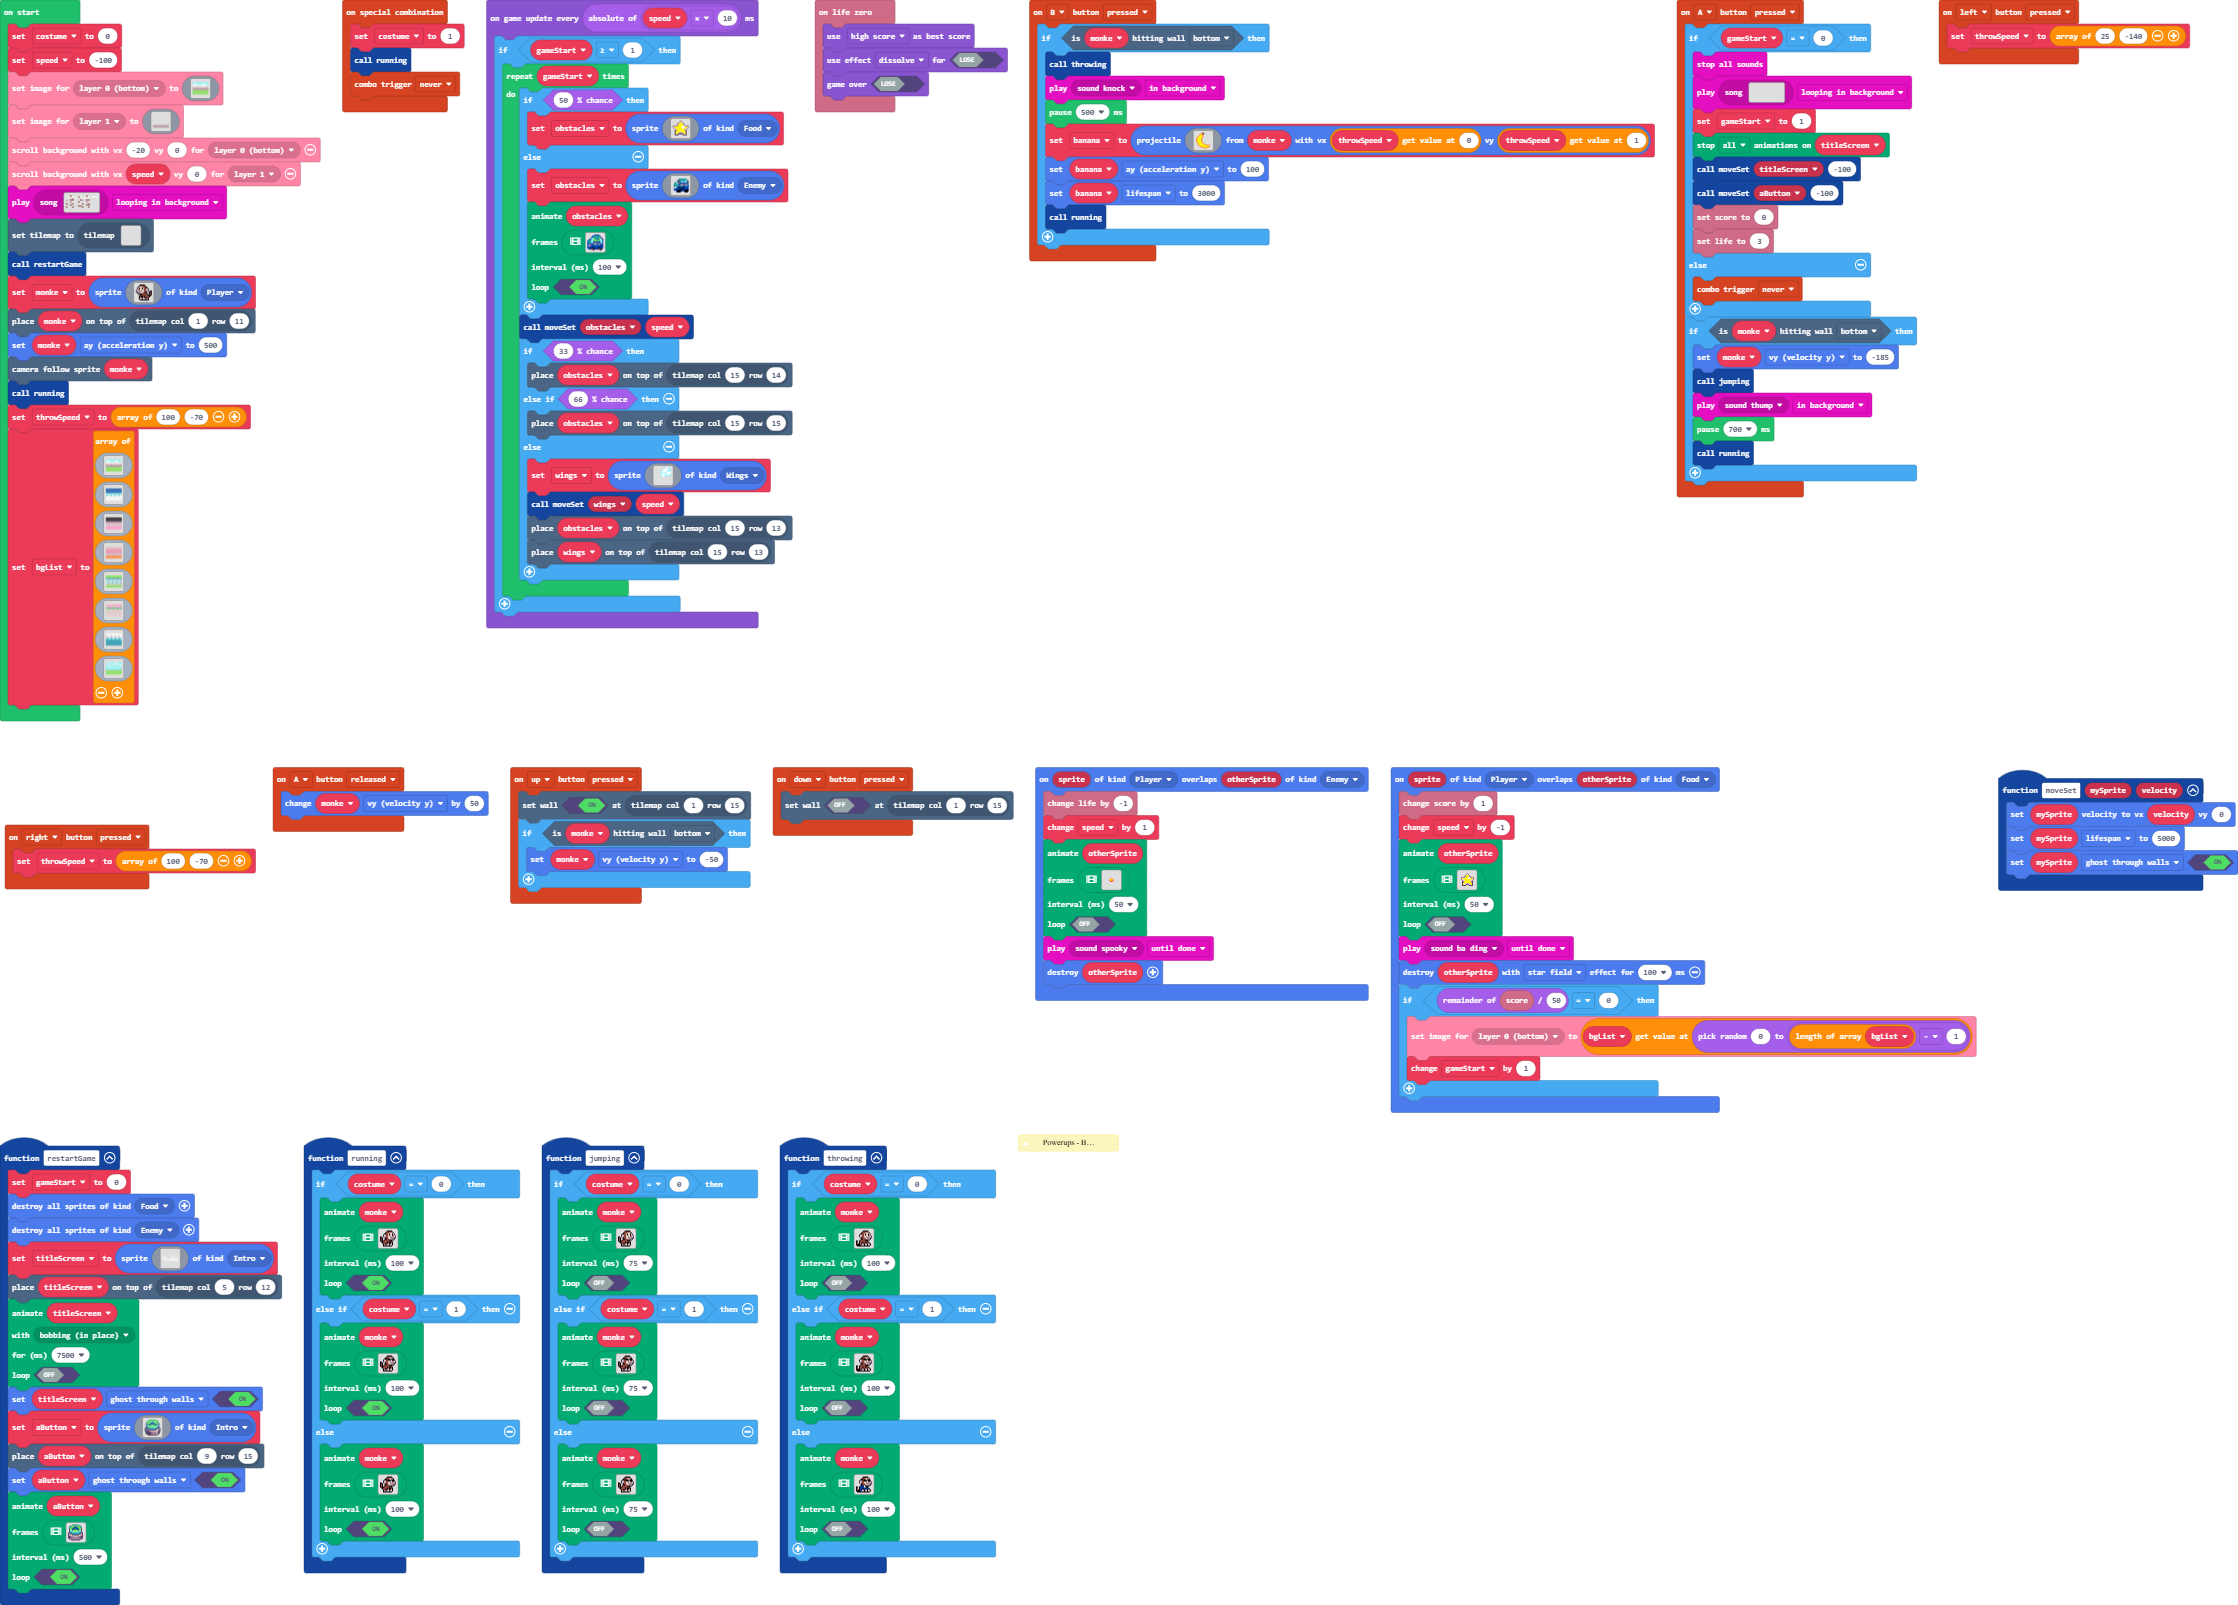
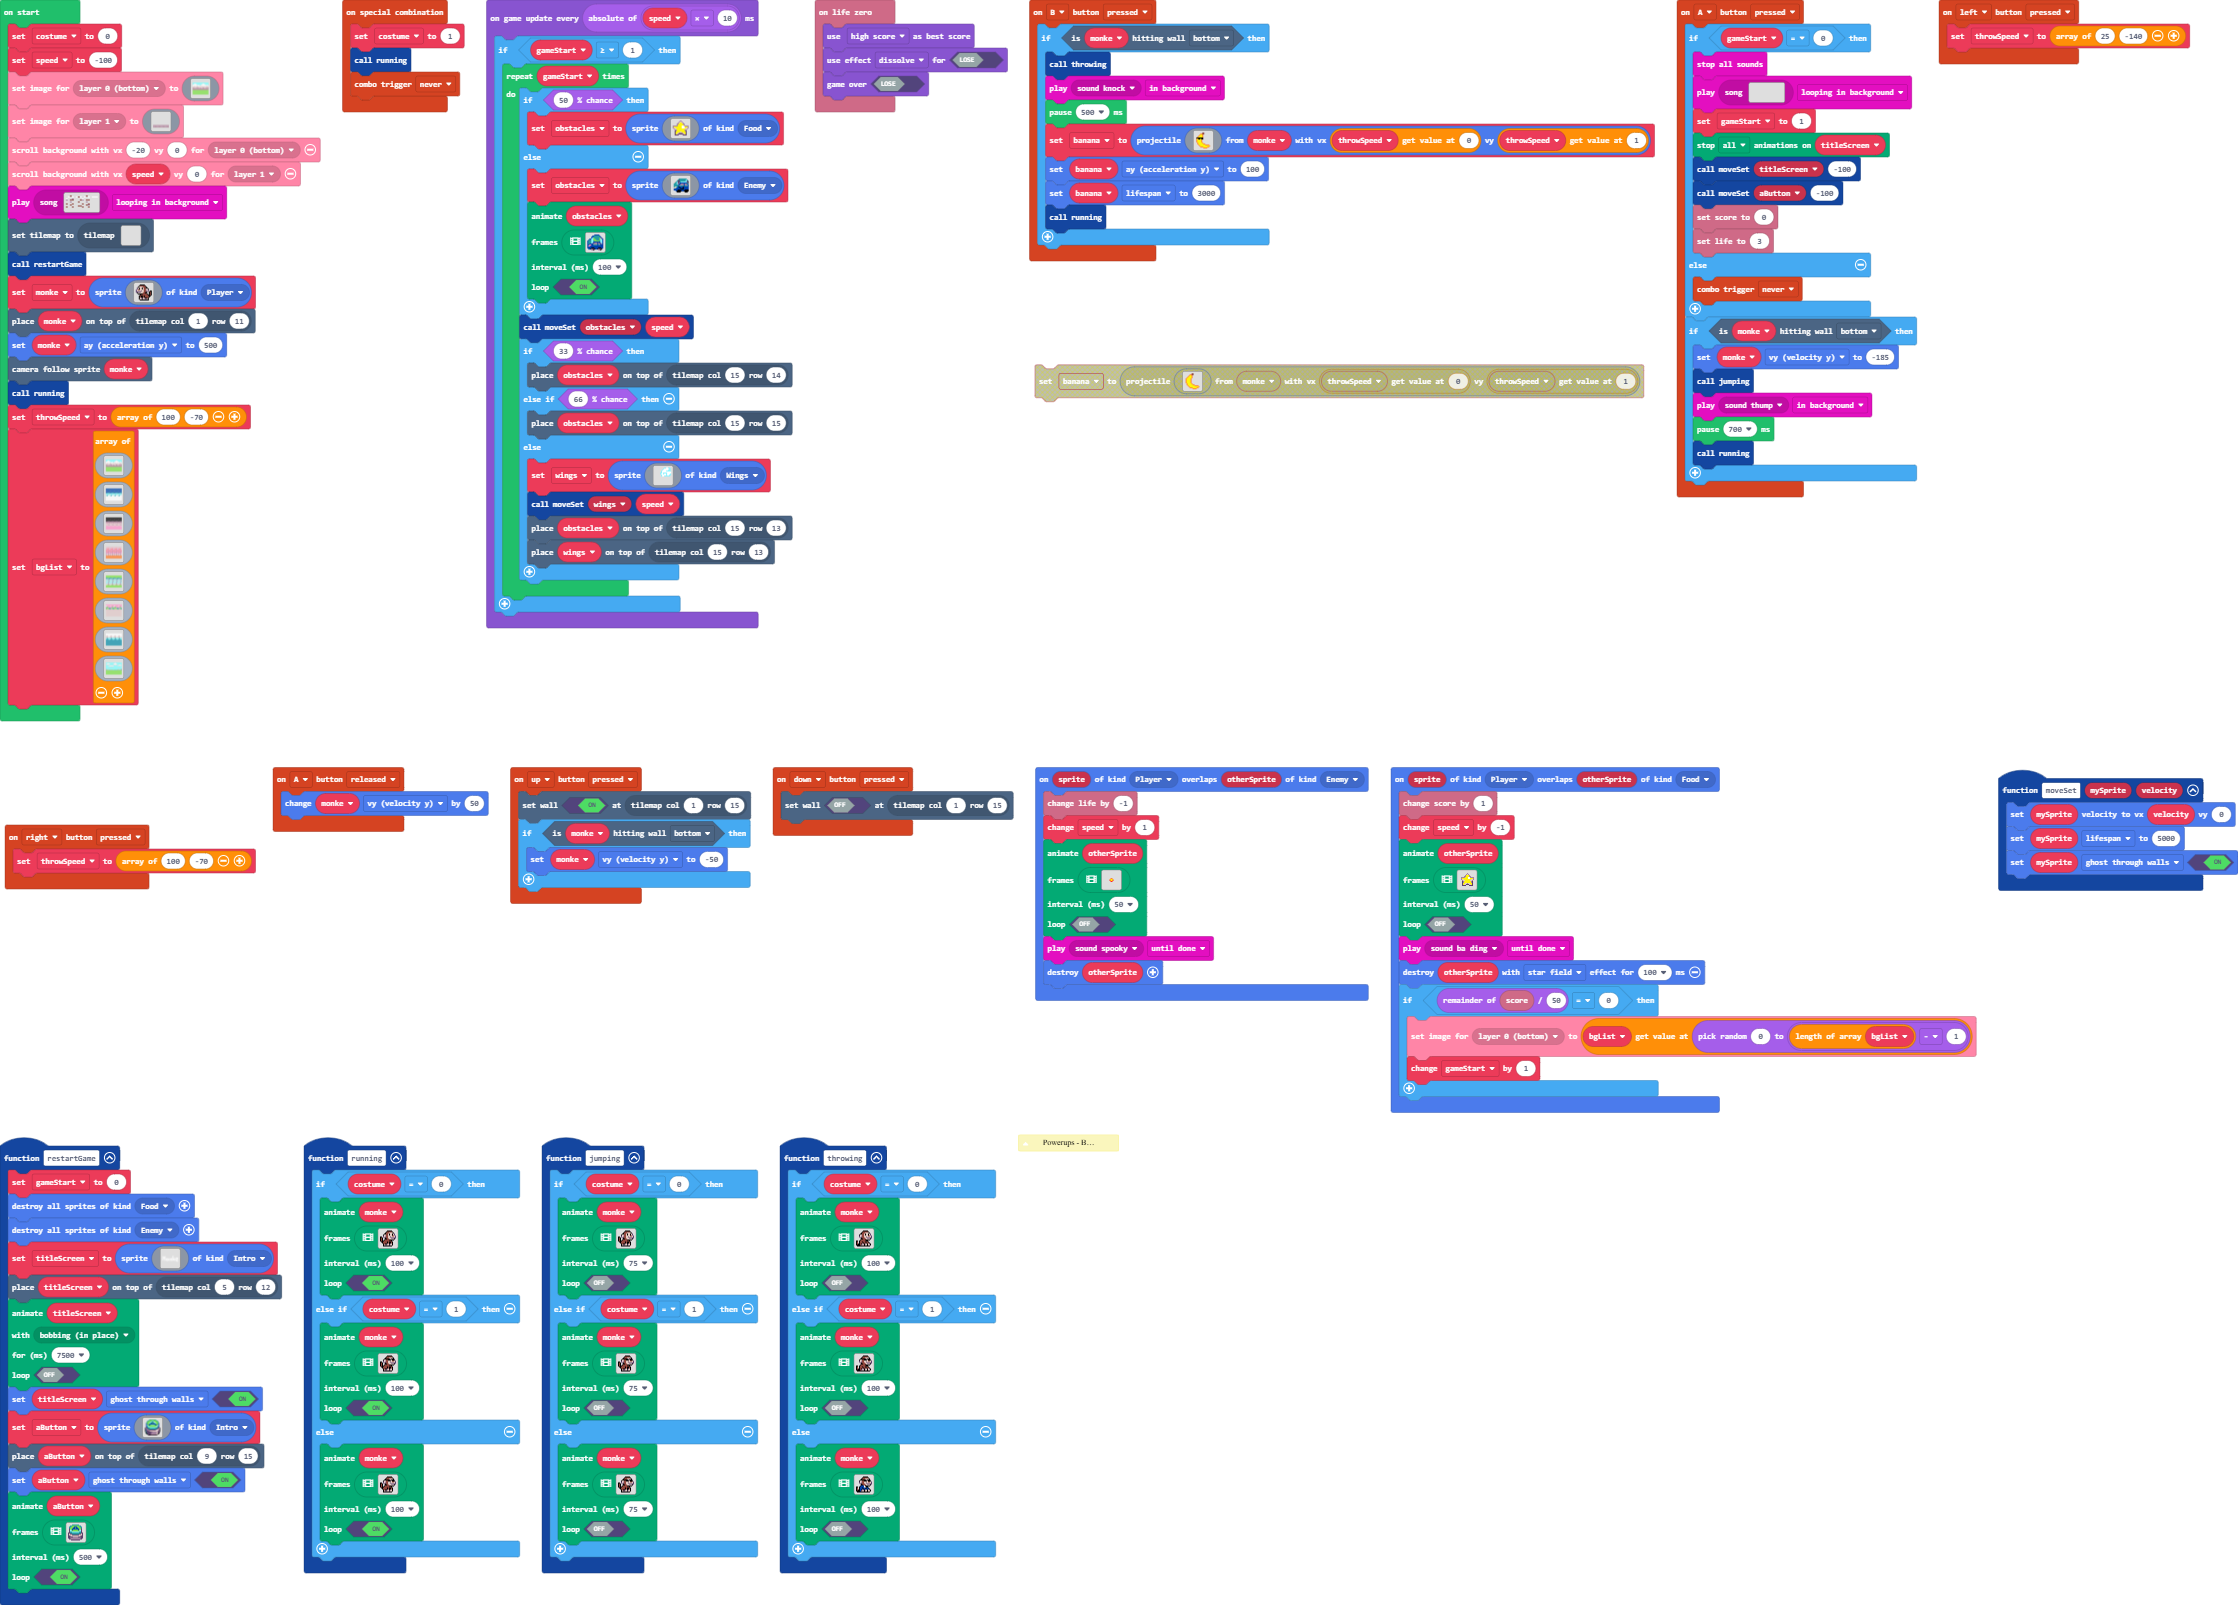
Update main.blocks, main.ts

Changed region(s): [[0.4625, 0.2181, 0.7399, 0.2492]]

diff --git a/main.ts b/main.ts
@@ -558,7 +558,24 @@ controller.B.onEvent(ControllerButtonEvent.Pressed, function () {
         throwing()
         music.play(music.melodyPlayable(music.knock), music.PlaybackMode.InBackground)
         pause(500)
-        banana = sprites.createProjectileFromSprite(assets.image`banana`, monke, throwSpeed[0], throwSpeed[1])
+        banana = sprites.createProjectileFromSprite(img`
+            . . . . . . . e e . . . . . . . 
+            . . . . . 4 4 e e . . . . . . . 
+            . . . . 4 5 5 4 . . . . . . . . 
+            . . . 4 5 5 5 4 . . . . . . . . 
+            . . 4 5 5 5 5 4 . . . . . . . . 
+            . f f f f f f f . . . . . . . . 
+            . 4 5 f f 5 f f . . . . . . . . 
+            . 4 5 5 5 5 4 . . . . . . . . . 
+            . 4 5 5 5 5 4 . . . . . . . . . 
+            . 4 5 5 5 5 4 . . . . . . . . . 
+            . . 4 5 5 5 5 4 . . . . . . . . 
+            . . 4 5 5 5 5 5 4 4 . . . . . . 
+            . . . 4 5 5 5 5 5 5 4 4 4 4 . . 
+            . . . . 4 5 5 5 5 5 5 5 5 5 4 . 
+            . . . . . 4 4 4 5 5 5 5 4 4 . . 
+            . . . . . . . . 4 4 4 4 . . . . 
+            `, monke, throwSpeed[0], throwSpeed[1])
         banana.ay = 100
         banana.lifespan = 3000
         running()
